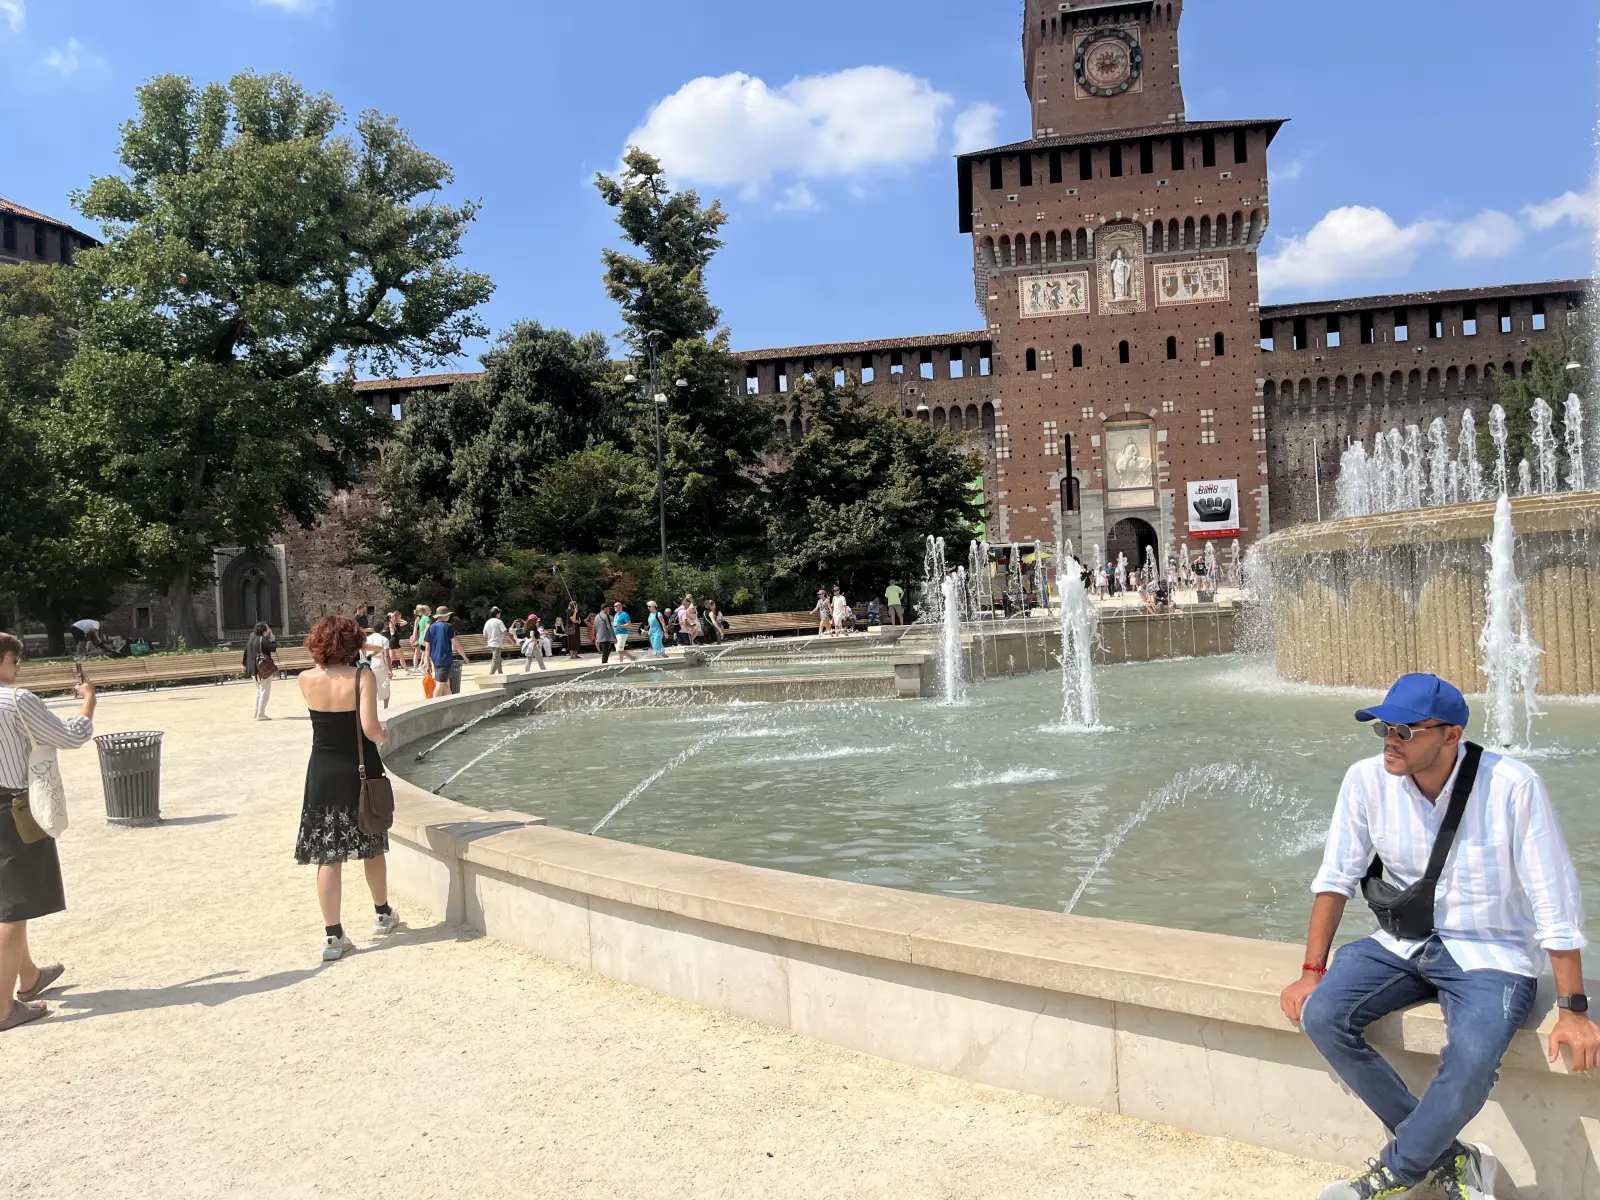
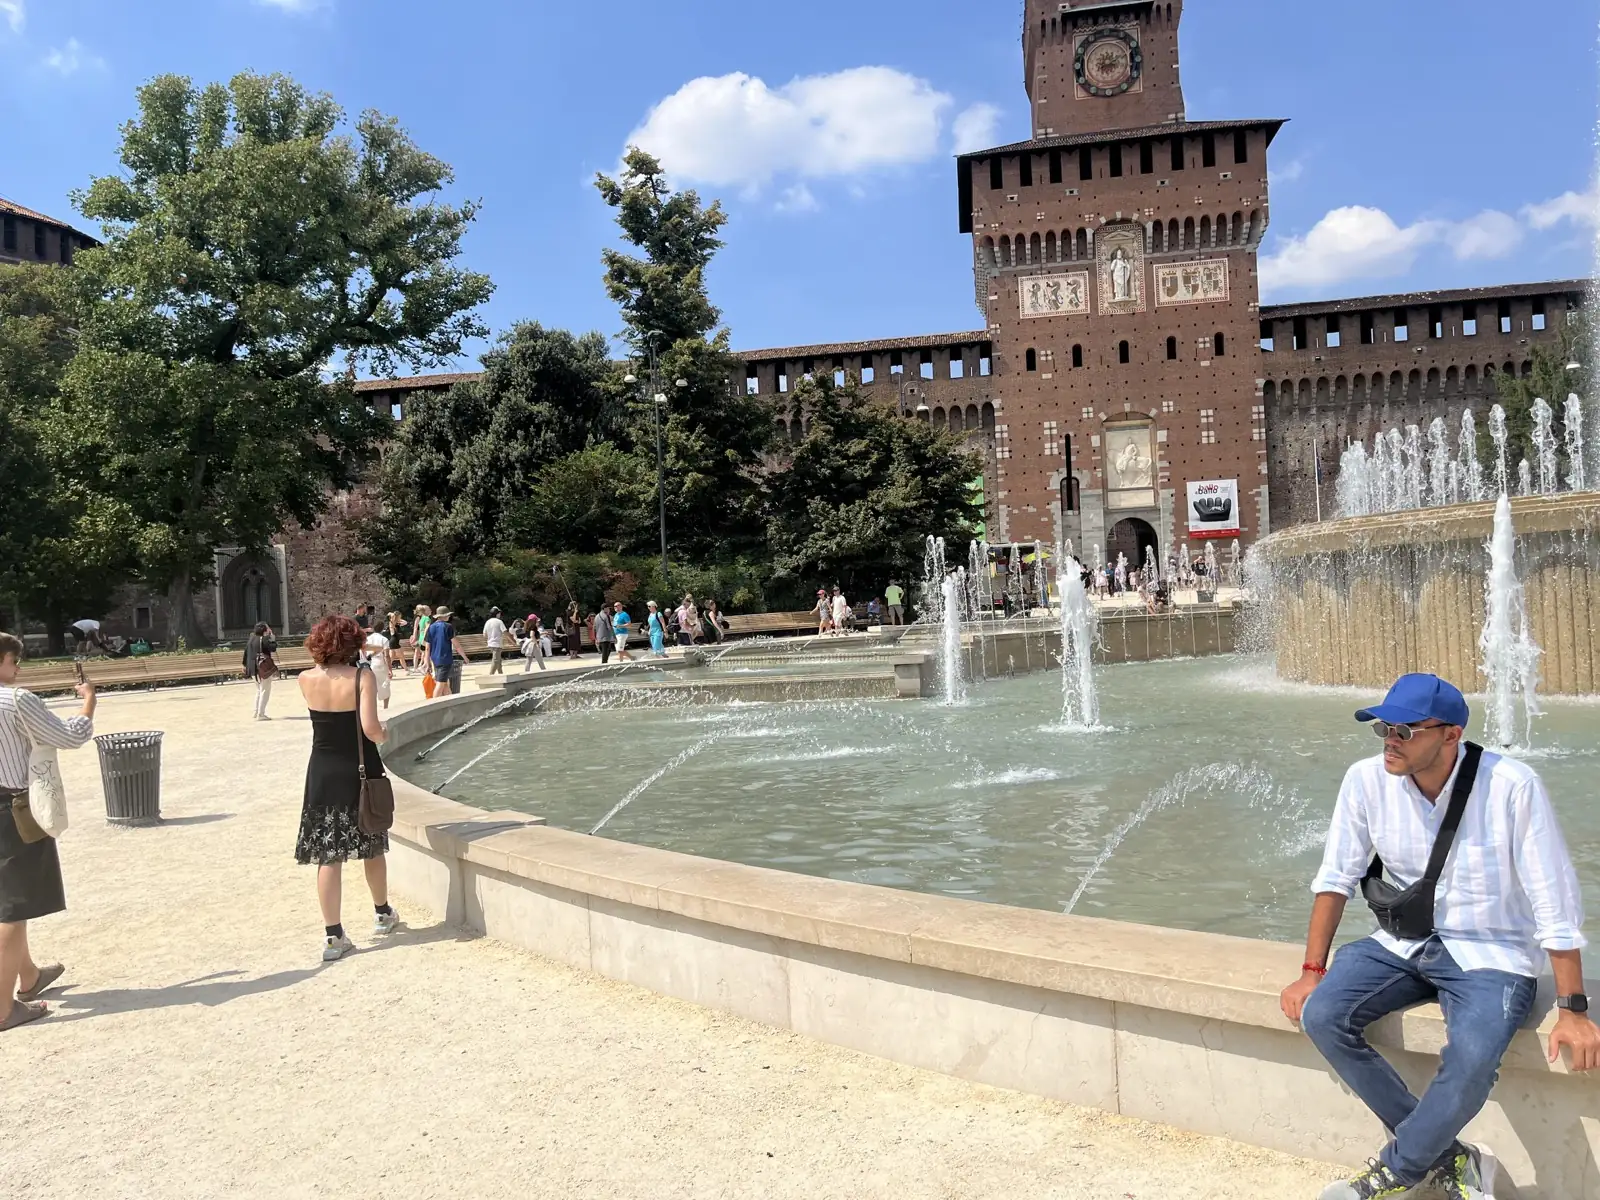
fix: performace

Changed region(s): [[0.25, 0.2775, 0.2812, 0.3083]]

diff --git a/vite.config.ts b/vite.config.ts
@@ -1,8 +1,34 @@
-import { defineConfig } from 'vite'
+import { defineConfig, type Plugin } from 'vite'
 import react from '@vitejs/plugin-react'
+// Inlines the single app CSS file into a <style> tag to eliminate the render-blocking <link>
+function inlineCss(): Plugin {
+  return {
+    name: 'inline-css',
+    enforce: 'post',
+    apply: 'build',
+    transformIndexHtml: {
+      order: 'post',
+      handler(html, ctx) {
+        if (!ctx.bundle) return html
+        for (const [fileName, chunk] of Object.entries(ctx.bundle)) {
+          if (fileName.endsWith('.css') && chunk.type === 'asset') {
+            const css = (chunk as { source: string | Uint8Array }).source
+            const cssStr = typeof css === 'string' ? css : Buffer.from(css).toString('utf-8')
+            // Replace the <link rel="stylesheet"> with an inline <style>
+            html = html.replace(
+              new RegExp(`<link[^>]+rel=["']stylesheet["'][^>]+href=["'][^"']*${fileName.replace(/[.*+?^${}()|[\]\\]/g, '\\$&')}["'][^>]*>`),
+              `<style>${cssStr}</style>`
+            )
+          }
+        }
+        return html
+      },
+    },
+  }
+}
 
 export default defineConfig({
-  plugins: [react()],
+  plugins: [react(), inlineCss()],
   server: { host: true },
   build: {
     target: 'es2020',
